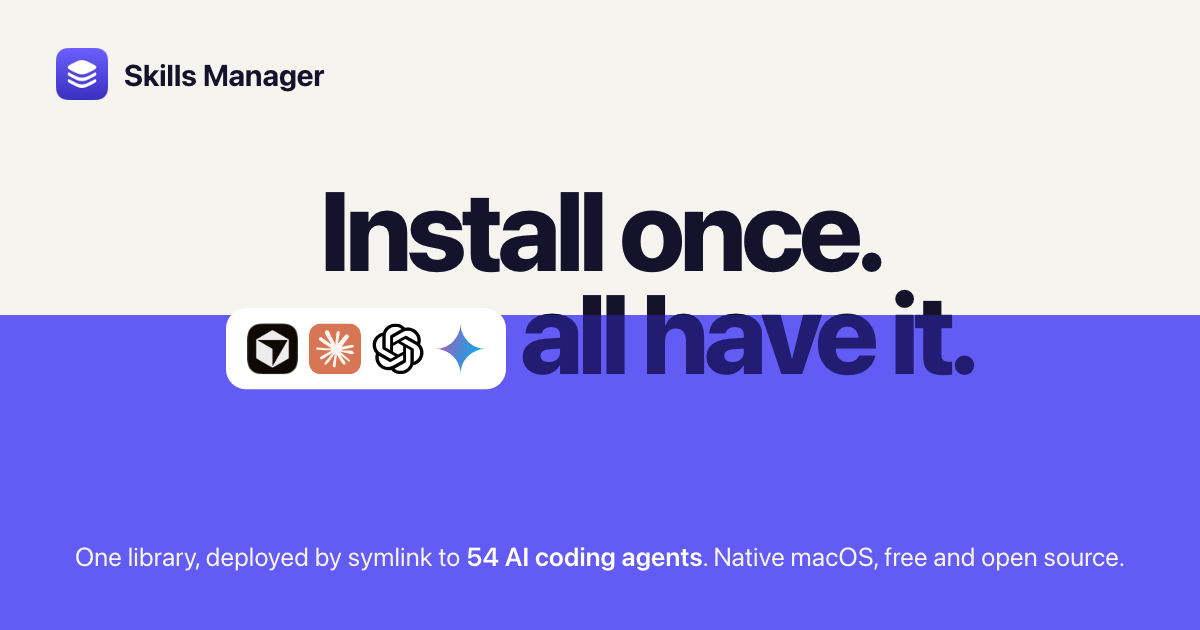
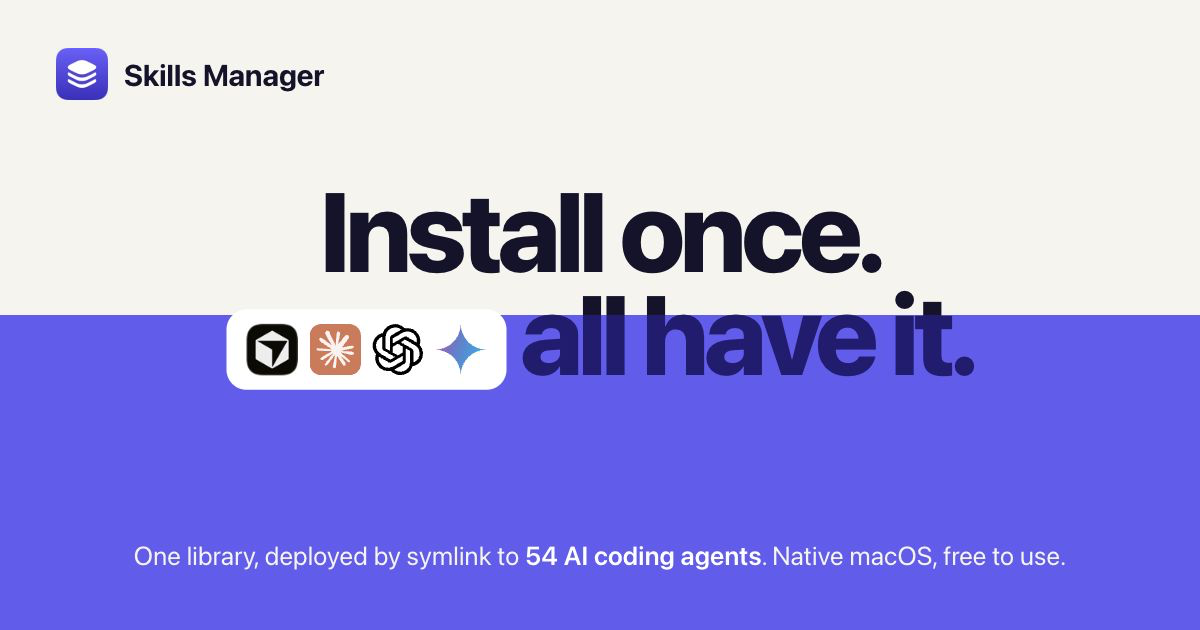
site: align public copy with private source distribution

diff --git a/en/index.html b/en/index.html
@@ -4,7 +4,7 @@
 <meta charset="utf-8">
 <meta name="viewport" content="width=device-width, initial-scale=1, viewport-fit=cover">
 <title>Skills Manager — Install a skill once, every agent has it · macOS</title>
-<meta name="description" content="Skills Manager is a native macOS app that keeps your AI coding agents&#x27; skills (SKILL.md folders) in one library and deploys them by symlink to 54 agents: Claude Code, Codex, Cursor, Gemini CLI and more. Free and open source.">
+<meta name="description" content="Skills Manager is a native macOS app that keeps your AI coding agents&#x27; skills (SKILL.md folders) in one library and deploys them by symlink to 54 agents: Claude Code, Codex, Cursor, Gemini CLI and more. Free to use.">
 <meta name="color-scheme" content="light">
 <meta name="theme-color" content="#f5f4ef">
 <meta name="application-name" content="Skills Manager">
@@ -20,7 +20,7 @@
 <meta property="og:locale" content="en_US">
 <meta property="og:locale:alternate" content="zh_CN">
 <meta property="og:title" content="Skills Manager — Install a skill once, every agent has it">
-<meta property="og:description" content="One library for every SKILL.md, deployed by symlink to 54 AI coding agents. Native macOS, free and open source.">
+<meta property="og:description" content="One library for every SKILL.md, deployed by symlink to 54 AI coding agents. Native macOS, free to use.">
 <meta property="og:url" content="https://skillsmanager.suixinapp.com/en/">
 <meta property="og:image" content="https://skillsmanager.suixinapp.com/assets/img/og-en.png">
 <meta property="og:image:width" content="1200">
@@ -28,7 +28,7 @@
 <meta property="og:image:alt" content="Skills Manager: the headline “Install once. All have it.” across a paper field and a violet field, with a row of agent icons set into the sentence">
 <meta name="twitter:card" content="summary_large_image">
 <meta name="twitter:title" content="Skills Manager — Install a skill once, every agent has it">
-<meta name="twitter:description" content="One library for every SKILL.md, deployed by symlink to 54 AI coding agents. Native macOS, free and open source.">
+<meta name="twitter:description" content="One library for every SKILL.md, deployed by symlink to 54 AI coding agents. Native macOS, free to use.">
 <meta name="twitter:image" content="https://skillsmanager.suixinapp.com/assets/img/og-en.png">
 
 <link rel="icon" href="../assets/img/favicon.svg" type="image/svg+xml">
@@ -92,7 +92,7 @@
   <div class="hero-title">
     <h1 id="hero-title"><span class="line">Install once.</span><span class="line"><span class="slot" role="img" aria-label="Your agents"><span class="marquee" aria-hidden="true"><span class="track"><span class="tile"><img src="../assets/img/agents/cursor.png" alt="" loading="lazy" decoding="async"></span><span class="tile"><img src="../assets/img/agents/claude_code.svg" alt="" loading="lazy" decoding="async"></span><span class="tile"><img src="../assets/img/agents/codex.svg" alt="" loading="lazy" decoding="async"></span><span class="tile"><img src="../assets/img/agents/gemini_cli.svg" alt="" loading="lazy" decoding="async"></span><span class="tile"><img src="../assets/img/agents/windsurf.svg" alt="" loading="lazy" decoding="async"></span><span class="tile"><img src="../assets/img/agents/github_copilot.png" alt="" loading="lazy" decoding="async"></span><span class="tile"><img src="../assets/img/agents/opencode.png" alt="" loading="lazy" decoding="async"></span><span class="tile"><img src="../assets/img/agents/amp.svg" alt="" loading="lazy" decoding="async"></span><span class="tile"><img src="../assets/img/agents/cline.png" alt="" loading="lazy" decoding="async"></span><span class="tile"><img src="../assets/img/agents/antigravity.png" alt="" loading="lazy" decoding="async"></span><span class="tile"><img src="../assets/img/agents/kilo_code.svg" alt="" loading="lazy" decoding="async"></span><span class="tile"><img src="../assets/img/agents/roo_code.svg" alt="" loading="lazy" decoding="async"></span><span class="tile"><img src="../assets/img/agents/goose.png" alt="" loading="lazy" decoding="async"></span><span class="tile"><img src="../assets/img/agents/droid.svg" alt="" loading="lazy" decoding="async"></span><span class="tile"><img src="../assets/img/agents/warp.svg" alt="" loading="lazy" decoding="async"></span><span class="tile"><img src="../assets/img/agents/trae.svg" alt="" loading="lazy" decoding="async"></span><span class="tile"><img src="../assets/img/agents/kiro.svg" alt="" loading="lazy" decoding="async"></span><span class="tile"><img src="../assets/img/agents/qwen_code.png" alt="" loading="lazy" decoding="async"></span><span class="tile"><img src="../assets/img/agents/zencoder.png" alt="" loading="lazy" decoding="async"></span><span class="tile"><img src="../assets/img/agents/augment.svg" alt="" loading="lazy" decoding="async"></span><span class="tile"><img src="../assets/img/agents/continue.png" alt="" loading="lazy" decoding="async"></span><span class="tile"><img src="../assets/img/agents/junie.png" alt="" loading="lazy" decoding="async"></span><span class="tile"><img src="../assets/img/agents/openhands.png" alt="" loading="lazy" decoding="async"></span><span class="tile"><img src="../assets/img/agents/crush.png" alt="" loading="lazy" decoding="async"></span></span><span class="track"><span class="tile"><img src="../assets/img/agents/cursor.png" alt="" loading="lazy" decoding="async"></span><span class="tile"><img src="../assets/img/agents/claude_code.svg" alt="" loading="lazy" decoding="async"></span><span class="tile"><img src="../assets/img/agents/codex.svg" alt="" loading="lazy" decoding="async"></span><span class="tile"><img src="../assets/img/agents/gemini_cli.svg" alt="" loading="lazy" decoding="async"></span><span class="tile"><img src="../assets/img/agents/windsurf.svg" alt="" loading="lazy" decoding="async"></span><span class="tile"><img src="../assets/img/agents/github_copilot.png" alt="" loading="lazy" decoding="async"></span><span class="tile"><img src="../assets/img/agents/opencode.png" alt="" loading="lazy" decoding="async"></span><span class="tile"><img src="../assets/img/agents/amp.svg" alt="" loading="lazy" decoding="async"></span><span class="tile"><img src="../assets/img/agents/cline.png" alt="" loading="lazy" decoding="async"></span><span class="tile"><img src="../assets/img/agents/antigravity.png" alt="" loading="lazy" decoding="async"></span><span class="tile"><img src="../assets/img/agents/kilo_code.svg" alt="" loading="lazy" decoding="async"></span><span class="tile"><img src="../assets/img/agents/roo_code.svg" alt="" loading="lazy" decoding="async"></span><span class="tile"><img src="../assets/img/agents/goose.png" alt="" loading="lazy" decoding="async"></span><span class="tile"><img src="../assets/img/agents/droid.svg" alt="" loading="lazy" decoding="async"></span><span class="tile"><img src="../assets/img/agents/warp.svg" alt="" loading="lazy" decoding="async"></span><span class="tile"><img src="../assets/img/agents/trae.svg" alt="" loading="lazy" decoding="async"></span><span class="tile"><img src="../assets/img/agents/kiro.svg" alt="" loading="lazy" decoding="async"></span><span class="tile"><img src="../assets/img/agents/qwen_code.png" alt="" loading="lazy" decoding="async"></span><span class="tile"><img src="../assets/img/agents/zencoder.png" alt="" loading="lazy" decoding="async"></span><span class="tile"><img src="../assets/img/agents/augment.svg" alt="" loading="lazy" decoding="async"></span><span class="tile"><img src="../assets/img/agents/continue.png" alt="" loading="lazy" decoding="async"></span><span class="tile"><img src="../assets/img/agents/junie.png" alt="" loading="lazy" decoding="async"></span><span class="tile"><img src="../assets/img/agents/openhands.png" alt="" loading="lazy" decoding="async"></span><span class="tile"><img src="../assets/img/agents/crush.png" alt="" loading="lazy" decoding="async"></span></span></span></span>all have it.</span></h1>
   </div>
-  <p class="hero-sub">One library for every SKILL.md, deployed by symlink to <strong>54 AI coding agents</strong> — Claude Code, Codex, Cursor and the rest. Native macOS, free and open source.</p>
+  <p class="hero-sub">One library for every SKILL.md, deployed by symlink to <strong>54 AI coding agents</strong> — Claude Code, Codex, Cursor and the rest. Native macOS, free to use.</p>
 </section>
 
 <div class="stage" data-field="violet">
@@ -158,7 +158,7 @@
 
 <section id="install" class="section install grid" data-field="paper">
   <h2>Two ways in.</h2>
-  <div class="lede"><p>Free, open source, MIT licensed. macOS 26 or later, Apple silicon and Intel.</p></div>
+  <div class="lede"><p>Free to use, MIT licensed. macOS 26 or later, Apple silicon and Intel.</p></div>
   <div class="way reveal">
     <h3>Download the DMG</h3>
     <ol class="way-steps"><li>Download <span data-dmg-name>SkillsManager-0.1.0.dmg</span> and open it.</li><li>Drag Skills Manager into your Applications folder.</li><li>Open it. The first launch scans your home folder for agents.</li></ol>
@@ -186,7 +186,7 @@
   <div class="footer-cta">
     <img src="../assets/img/icon-192.png" width="96" height="96" alt="" loading="lazy" decoding="async">
     <h2>Install once.<br>Use everywhere.</h2>
-    <p>A native macOS app, free and open source. macOS 26 or later.</p>
+    <p>A native macOS app, free to use. macOS 26 or later.</p>
     <div class="cta">
       <a class="btn btn-paper btn-lg" data-download-dmg href="/download/SkillsManager-0.1.0.dmg"><svg viewBox="0 0 24 24" aria-hidden="true" class="i"><path d="M12 4v12m-5-5 5 5 5-5M5 20h14"/></svg>Download Skills Manager</a>
       <a class="link-btn" href="#install">or use Homebrew</a>

diff --git a/index.html b/index.html
@@ -4,7 +4,7 @@
 <meta charset="utf-8">
 <meta name="viewport" content="width=device-width, initial-scale=1, viewport-fit=cover">
 <title>Skills Manager — 技能只装一次，所有 Agent 都能用 · macOS</title>
-<meta name="description" content="Skills Manager 是一个原生 macOS 应用：把 AI 编程 Agent 的技能（SKILL.md 文件夹）收进一个库，用符号链接部署到 Claude Code、Codex、Cursor、Gemini CLI 等 54 个 Agent。免费开源。">
+<meta name="description" content="Skills Manager 是一个原生 macOS 应用：把 AI 编程 Agent 的技能（SKILL.md 文件夹）收进一个库，用符号链接部署到 Claude Code、Codex、Cursor、Gemini CLI 等 54 个 Agent。免费使用。">
 <meta name="color-scheme" content="light">
 <meta name="theme-color" content="#f5f4ef">
 <meta name="application-name" content="Skills Manager">
@@ -20,7 +20,7 @@
 <meta property="og:locale" content="zh_CN">
 <meta property="og:locale:alternate" content="en_US">
 <meta property="og:title" content="Skills Manager — 技能只装一次，所有 Agent 都能用">
-<meta property="og:description" content="一个库放下所有 SKILL.md，用符号链接部署到 54 个 AI 编程 Agent。原生 macOS 应用，免费开源。">
+<meta property="og:description" content="一个库放下所有 SKILL.md，用符号链接部署到 54 个 AI 编程 Agent。原生 macOS 应用，免费使用。">
 <meta property="og:url" content="https://skillsmanager.suixinapp.com/">
 <meta property="og:image" content="https://skillsmanager.suixinapp.com/assets/img/og.png">
 <meta property="og:image:width" content="1200">
@@ -28,7 +28,7 @@
 <meta property="og:image:alt" content="Skills Manager：标题「技能只装一次，都能用」横跨米白和紫色两块色域，句子里嵌着一排 Agent 图标">
 <meta name="twitter:card" content="summary_large_image">
 <meta name="twitter:title" content="Skills Manager — 技能只装一次，所有 Agent 都能用">
-<meta name="twitter:description" content="一个库放下所有 SKILL.md，用符号链接部署到 54 个 AI 编程 Agent。原生 macOS 应用，免费开源。">
+<meta name="twitter:description" content="一个库放下所有 SKILL.md，用符号链接部署到 54 个 AI 编程 Agent。原生 macOS 应用，免费使用。">
 <meta name="twitter:image" content="https://skillsmanager.suixinapp.com/assets/img/og.png">
 
 <link rel="icon" href="assets/img/favicon.svg" type="image/svg+xml">
@@ -92,7 +92,7 @@
   <div class="hero-title">
     <h1 id="hero-title"><span class="line">技能只装一次，</span><span class="line"><span class="slot" role="img" aria-label="所有 Agent"><span class="marquee" aria-hidden="true"><span class="track"><span class="tile"><img src="assets/img/agents/cursor.png" alt="" loading="lazy" decoding="async"></span><span class="tile"><img src="assets/img/agents/claude_code.svg" alt="" loading="lazy" decoding="async"></span><span class="tile"><img src="assets/img/agents/codex.svg" alt="" loading="lazy" decoding="async"></span><span class="tile"><img src="assets/img/agents/gemini_cli.svg" alt="" loading="lazy" decoding="async"></span><span class="tile"><img src="assets/img/agents/windsurf.svg" alt="" loading="lazy" decoding="async"></span><span class="tile"><img src="assets/img/agents/github_copilot.png" alt="" loading="lazy" decoding="async"></span><span class="tile"><img src="assets/img/agents/opencode.png" alt="" loading="lazy" decoding="async"></span><span class="tile"><img src="assets/img/agents/amp.svg" alt="" loading="lazy" decoding="async"></span><span class="tile"><img src="assets/img/agents/cline.png" alt="" loading="lazy" decoding="async"></span><span class="tile"><img src="assets/img/agents/antigravity.png" alt="" loading="lazy" decoding="async"></span><span class="tile"><img src="assets/img/agents/kilo_code.svg" alt="" loading="lazy" decoding="async"></span><span class="tile"><img src="assets/img/agents/roo_code.svg" alt="" loading="lazy" decoding="async"></span><span class="tile"><img src="assets/img/agents/goose.png" alt="" loading="lazy" decoding="async"></span><span class="tile"><img src="assets/img/agents/droid.svg" alt="" loading="lazy" decoding="async"></span><span class="tile"><img src="assets/img/agents/warp.svg" alt="" loading="lazy" decoding="async"></span><span class="tile"><img src="assets/img/agents/trae.svg" alt="" loading="lazy" decoding="async"></span><span class="tile"><img src="assets/img/agents/kiro.svg" alt="" loading="lazy" decoding="async"></span><span class="tile"><img src="assets/img/agents/qwen_code.png" alt="" loading="lazy" decoding="async"></span><span class="tile"><img src="assets/img/agents/zencoder.png" alt="" loading="lazy" decoding="async"></span><span class="tile"><img src="assets/img/agents/augment.svg" alt="" loading="lazy" decoding="async"></span><span class="tile"><img src="assets/img/agents/continue.png" alt="" loading="lazy" decoding="async"></span><span class="tile"><img src="assets/img/agents/junie.png" alt="" loading="lazy" decoding="async"></span><span class="tile"><img src="assets/img/agents/openhands.png" alt="" loading="lazy" decoding="async"></span><span class="tile"><img src="assets/img/agents/crush.png" alt="" loading="lazy" decoding="async"></span></span><span class="track"><span class="tile"><img src="assets/img/agents/cursor.png" alt="" loading="lazy" decoding="async"></span><span class="tile"><img src="assets/img/agents/claude_code.svg" alt="" loading="lazy" decoding="async"></span><span class="tile"><img src="assets/img/agents/codex.svg" alt="" loading="lazy" decoding="async"></span><span class="tile"><img src="assets/img/agents/gemini_cli.svg" alt="" loading="lazy" decoding="async"></span><span class="tile"><img src="assets/img/agents/windsurf.svg" alt="" loading="lazy" decoding="async"></span><span class="tile"><img src="assets/img/agents/github_copilot.png" alt="" loading="lazy" decoding="async"></span><span class="tile"><img src="assets/img/agents/opencode.png" alt="" loading="lazy" decoding="async"></span><span class="tile"><img src="assets/img/agents/amp.svg" alt="" loading="lazy" decoding="async"></span><span class="tile"><img src="assets/img/agents/cline.png" alt="" loading="lazy" decoding="async"></span><span class="tile"><img src="assets/img/agents/antigravity.png" alt="" loading="lazy" decoding="async"></span><span class="tile"><img src="assets/img/agents/kilo_code.svg" alt="" loading="lazy" decoding="async"></span><span class="tile"><img src="assets/img/agents/roo_code.svg" alt="" loading="lazy" decoding="async"></span><span class="tile"><img src="assets/img/agents/goose.png" alt="" loading="lazy" decoding="async"></span><span class="tile"><img src="assets/img/agents/droid.svg" alt="" loading="lazy" decoding="async"></span><span class="tile"><img src="assets/img/agents/warp.svg" alt="" loading="lazy" decoding="async"></span><span class="tile"><img src="assets/img/agents/trae.svg" alt="" loading="lazy" decoding="async"></span><span class="tile"><img src="assets/img/agents/kiro.svg" alt="" loading="lazy" decoding="async"></span><span class="tile"><img src="assets/img/agents/qwen_code.png" alt="" loading="lazy" decoding="async"></span><span class="tile"><img src="assets/img/agents/zencoder.png" alt="" loading="lazy" decoding="async"></span><span class="tile"><img src="assets/img/agents/augment.svg" alt="" loading="lazy" decoding="async"></span><span class="tile"><img src="assets/img/agents/continue.png" alt="" loading="lazy" decoding="async"></span><span class="tile"><img src="assets/img/agents/junie.png" alt="" loading="lazy" decoding="async"></span><span class="tile"><img src="assets/img/agents/openhands.png" alt="" loading="lazy" decoding="async"></span><span class="tile"><img src="assets/img/agents/crush.png" alt="" loading="lazy" decoding="async"></span></span></span></span>都能用。</span></h1>
   </div>
-  <p class="hero-sub">把所有 SKILL.md 放进一个库，用符号链接部署到 Claude Code、Codex、Cursor 等 <strong>54 个 AI 编程 Agent</strong>。原生 macOS 应用，免费开源。</p>
+  <p class="hero-sub">把所有 SKILL.md 放进一个库，用符号链接部署到 Claude Code、Codex、Cursor 等 <strong>54 个 AI 编程 Agent</strong>。原生 macOS 应用，免费使用。</p>
 </section>
 
 <div class="stage" data-field="violet">
@@ -158,7 +158,7 @@
 
 <section id="install" class="section install grid" data-field="paper">
   <h2>两种装法。</h2>
-  <div class="lede"><p>免费，开源，MIT 许可。macOS 26 或更高，Apple 芯片和 Intel 通用。</p></div>
+  <div class="lede"><p>免费使用，MIT 许可。macOS 26 或更高，Apple 芯片和 Intel 通用。</p></div>
   <div class="way reveal">
     <h3>下载 DMG</h3>
     <ol class="way-steps"><li>下载 <span data-dmg-name>SkillsManager-0.1.0.dmg</span> 并打开。</li><li>把 Skills Manager 拖进「应用程序」文件夹。</li><li>打开它。第一次会扫描你主目录里的 Agent。</li></ol>
@@ -186,7 +186,7 @@
   <div class="footer-cta">
     <img src="assets/img/icon-192.png" width="96" height="96" alt="" loading="lazy" decoding="async">
     <h2>装一次，<br>到处用。</h2>
-    <p>原生 macOS 应用，免费开源。macOS 26 或更高。</p>
+    <p>原生 macOS 应用，免费使用。macOS 26 或更高。</p>
     <div class="cta">
       <a class="btn btn-paper btn-lg" data-download-dmg href="/download/SkillsManager-0.1.0.dmg"><svg viewBox="0 0 24 24" aria-hidden="true" class="i"><path d="M12 4v12m-5-5 5 5 5-5M5 20h14"/></svg>下载 Skills Manager</a>
       <a class="link-btn" href="#install">或者用 Homebrew</a>
